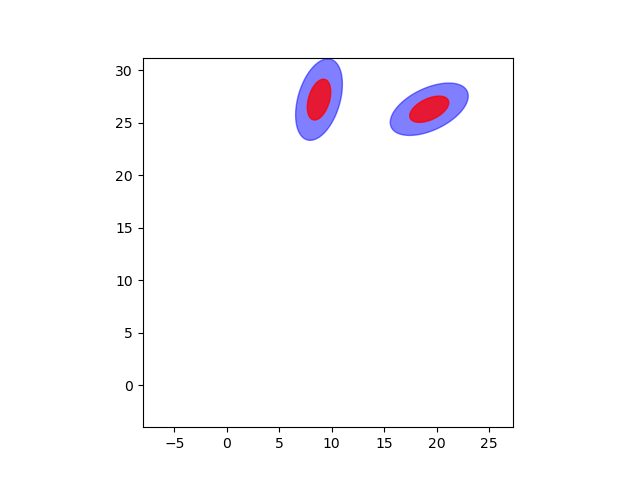
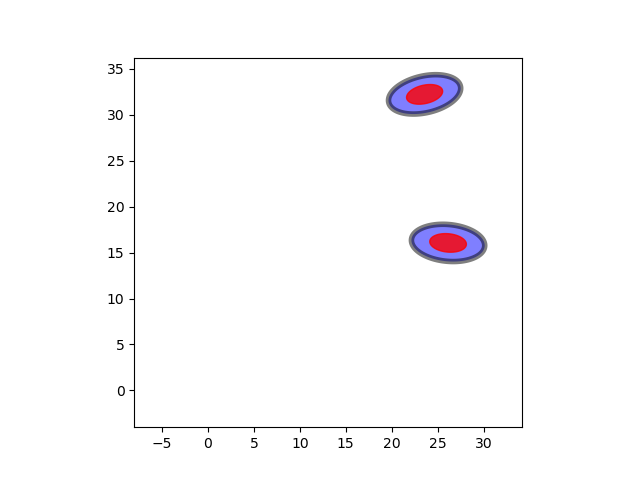
Somewhat working

diff --git a/Ellipse_Multi_Cell_Model_Python/adhesions.py b/Ellipse_Multi_Cell_Model_Python/adhesions.py
@@ -4,27 +4,23 @@ from energy import *
 def random_adhesions(L, a, b, cells, cparams,
                     Nadh, k_plus, dt, rng):
 
-    Adh = np.zeros((cells.shape[0]//3, Nadh, 2)) - 1
-    Adh0 = np.zeros((cells.shape[0]//3, Nadh, 2)) - 1
+    Adh = np.zeros((cells.shape[0]//3, Nadh, 2)) - 1e8
+    Adh0 = np.zeros((cells.shape[0]//3, Nadh, 2)) - 1e8
 
     for ind in range(cells.shape[0]//3):
         n = 2
         #Front and back points must be connected
         #front
-        x, y = a, 0.0
-        xp = (x*cos(pi/180*cparams[4*ind+2]) +
-                y*sin(pi/180*cparams[4*ind+2]))
-        yp = (x*sin(pi/180*cparams[4*ind+2]) +
-                y*cos(pi/180*cparams[4*ind+2]))
+        x = a
+        xp = x*cos(pi/180*cparams[4*ind+2])
+        yp = x*sin(pi/180*cparams[4*ind+2])
         Adh0[ind, 0] = np.array([xp, yp]) + cells[3*ind:(3*ind+2)]
         Adh[ind, 0] = np.array([xp, yp])
 
         #back
-        x, y = -a, 0.0
-        xp = (x*cos(pi/180*cparams[4*ind+2]) +
-                y*sin(pi/180*cparams[4*ind+2]))
-        yp = (x*sin(pi/180*cparams[4*ind+2]) +
-                y*cos(pi/180*cparams[4*ind+2]))
+        x = -a
+        xp = x*cos(pi/180*cparams[4*ind+2])
+        yp = x*sin(pi/180*cparams[4*ind+2])
         Adh0[ind, 1] = np.array([xp, yp]) + cells[3*ind:(3*ind+2)]
         Adh[ind, 1] = np.array([xp, yp])
 
@@ -50,8 +46,8 @@ def random_adhesions(L, a, b, cells, cparams,
 
 def new_adhesion(cell, cp, Nadh, a, b, L, k_plus, dt, rng):
 
-    Adh = np.zeros((Nadh, 2)) - 1
-    Adh0 = np.zeros((Nadh, 2)) - 1
+    Adh = np.zeros((Nadh, 2)) - 1e8
+    Adh0 = np.zeros((Nadh, 2)) - 1e8
 
     #Front and back points must be connected
     #front
@@ -90,7 +86,7 @@ def new_adhesion(cell, cp, Nadh, a, b, L, k_plus, dt, rng):
 def rotation(cells, cparams, Adh):
 
     for i in range(cells.shape[0]//3):
-        ind = np.arange(Adh.shape[1])[np.all(Adh[i]==-1,axis=1)]
+        ind = np.arange(Adh.shape[1])[np.all(Adh[i]!=-1e8,axis=1)]
         x, y = Adh[i, ind, 0], Adh[i, ind, 1]
         dtheta = pi/180*cells[3*i+2]
 
@@ -109,12 +105,12 @@ def contraction(cells, cparams, Ovlaps, Adh, lamda, tau, dt, T_S, a, b,
 
     for i in range(cells.shape[0]//3):
         # If no cells overlap
-        if (np.all(Ovlaps[i] == -1)):
+        if (np.all(Ovlaps[i] == -1e8)):
              c = lamda*dt/tau
 
              # Update a
              cparams[4*i] = a*exp(-c*cparams[4*i+3])
-             ind = np.arange(Adh.shape[1])[np.all(Adh[i]==-1,axis=1)]
+             ind = np.arange(Adh.shape[1])[np.all(Adh[i]!=-1e8,axis=1)]
              x, y = Adh[i, ind, 0], Adh[i, ind, 1]
              theta = pi/180*cparams[4*i+2]
 
@@ -135,7 +131,7 @@ def contraction(cells, cparams, Ovlaps, Adh, lamda, tau, dt, T_S, a, b,
                 # Update a
                 cparams[4*i] = a*exp(-c*cparams[4*i+3])
 
-                ind = np.arange(Adh.shape[1])[np.all(Adh[i]==-1,axis=1)]
+                ind = np.arange(Adh.shape[1])[np.all(Adh[i]!=-1e8,axis=1)]
                 x, y = Adh[i, ind, 0], Adh[i, ind, 1]
                 theta = pi/180*cparams[4*i+2]
 
@@ -149,7 +145,7 @@ def contraction(cells, cparams, Ovlaps, Adh, lamda, tau, dt, T_S, a, b,
 
                 # Update a
                 cparams[4*i] = a*exp(-c*cparams[4*i+3])
-                ind = np.arange(Adh.shape[1])[np.all(Adh[i]==-1,axis=1)]
+                ind = np.arange(Adh.shape[1])[np.all(Adh[i]!=-1e8,axis=1)]
                 x, y = Adh[i, ind, 0], Adh[i, ind, 1]
                 theta = pi/180*cparams[4*i+2]
 
@@ -166,7 +162,7 @@ def contraction(cells, cparams, Ovlaps, Adh, lamda, tau, dt, T_S, a, b,
 
 def mature(cell, Adh, Adh0, cp, Nadh, k_s, fTh, dt, rng):
 
-    ind = np.arange(Adh.shape[0])[np.all(Adh ==-1,axis=1)]
+    ind = np.arange(Adh.shape[0])[np.all(Adh !=-1e8,axis=1)]
 
     for i in ind:
         dis = sqrt(np.sum((Adh[i]-Adh0[i])**2.))
@@ -180,19 +176,19 @@ def mature(cell, Adh, Adh0, cp, Nadh, k_s, fTh, dt, rng):
     return Adh, Adh0
 
 def detach(cell, cell0, Adh, Adh0, cp, cp0,
-            Nadh, k_b, k_f, k_s, alpha, dt, rng):
+            Nadh, k_b, k_f, k_s, alpha, a, dt, rng):
 
-    ind = np.arange(Adh.shape[0])[np.all(Adh ==-1,axis=1)]
+    ind = np.arange(Adh.shape[0])[np.all(Adh !=-1e8,axis=1)]
 
     for i in ind:
-        x0 = ((Adh0[i, 0] - cell0[i])*cos(cp0[2]) +
-              (Adh0[i, 1] - cell0[i+1])*sin(cp0[2]))
+        x0 = ((Adh0[i, 0] - cell0[0])*cos(cp0[2]) +
+              (Adh0[i, 1] - cell0[1])*sin(cp0[2]))
 
         #detachment rate
         k_x = k_b - (k_b - k_f)*(x0+a)/(2*a)
 
         dis = sqrt(np.sum((Adh[i]-Adh0[i])**2.))
-        off_rate = k_x*exp(alpha*dis/a*ks/0.1)
+        off_rate = k_x*exp(alpha*dis/a*k_s/0.1)
 
         #detach adhesion site
         if (rng.random() < off_rate*dt):

diff --git a/Ellipse_Multi_Cell_Model_Python/energy.py b/Ellipse_Multi_Cell_Model_Python/energy.py
@@ -1,13 +1,14 @@
 import numpy as np
 from cell import *
 from adhesions import *
+import numba as nb
 
 def adhesion_energy(cells, Adh, Adh0, k_s):
 
     ad_energy = 0
 
     for i in range(cells.shape[0]//3):
-        ind = np.arange(Adh.shape[1])[np.all(Adh[i]==-1,axis=1)]
+        ind = np.arange(Adh.shape[1])[np.all(Adh[i]!=-1e8,axis=1)]
         dtheta = pi/180*cells[3*i+2]
         fx = -((cos(dtheta)*Adh[i, ind, 0]-sin(dtheta)*Adh[i, ind, 1] +
                 cells[3*i] - Adh0[i, ind, 0]))
@@ -24,21 +25,21 @@ def overlap_energy(cells, cparams, num, Ovlaps,
     oval_energy = 0
 
     #cells overlap
-    if np.any(Ovlaps[num] != -1):
+    if np.any(Ovlaps[num] != -1e8):
 
         ell_i_out = create_ellipse((cells[3*num],cells[3*num+1]), (
-                        cparams[4*num],cparams[4*num+1]), cells[4*num+2])
+                        cparams[4*num],cparams[4*num+1]), cparams[4*num+2])
         ell_i_in = create_ellipse((cells[3*num],cells[3*num+1]), (0.5*
-                        cparams[4*num],0.5*cparams[4*num+1]), cells[4*num+2])
+                        cparams[4*num],0.5*cparams[4*num+1]), cparams[4*num+2])
 
         ind = np.arange(Ovlaps.shape[0])[Ovlaps[num] == 1]
 
         #for each cell, find the overlap energy
         for j in ind:
             ell_j_out = create_ellipse((cells[3*j],cells[3*j+1]), (
-                            cparams[4*j],cparams[4*j+1]), cells[4*j+2])
+                            cparams[4*j],cparams[4*j+1]), cparams[4*j+2])
             ell_j_in = create_ellipse((cells[3*j],cells[3*j+1]), (0.5*
-                            cparams[4*j],0.5*cparams[4*j+1]), cells[4*j+2])
+                            cparams[4*j],0.5*cparams[4*j+1]), cparams[4*j+2])
 
             #find the overlap area
             oval_energy -= 0.5*k_out_out*(ell_i_out.intersection(ell_j_out).area)
@@ -65,15 +66,15 @@ def compute_tension(cells, num, cparams, Ovlaps, k_out_out,
     cp = cparams.copy()
 
     #change a
-    cp[4*num] += 1e-4
+    cp[4*num] = 1.5*cparams[4*num]
     e1 = overlap_energy(cells, cp, num, Ovlaps,
                         k_out_out, k_in_out, k_in_in)
 
-    cp[4*num] -= 2e-4
+    cp[4*num] = 0.5*cparams[4*num]
     e2 = overlap_energy(cells, cp, num, Ovlaps,
                         k_out_out, k_in_out, k_in_in)
 
-    return (e2 - e1)/2e-4
+    return (e2 - e1)/cparams[4*num]
 
 def total_energy(cells, cparams, Ovlaps, Adh, Adh0,
                 k_s, k_out_out, k_in_out, k_in_in):

diff --git a/Ellipse_Multi_Cell_Model_Python/plot_cells.py b/Ellipse_Multi_Cell_Model_Python/plot_cells.py
@@ -4,6 +4,7 @@ from shapely import affinity
 from shapely.ops import unary_union, polygonize
 from itertools import combinations
 from matplotlib.patches import Polygon
+from matplotlib import collections  as mc
 import numpy as np
 import math
 
@@ -17,10 +18,11 @@ def create_ellipse(center, lengths, angle=0):
     ellr = affinity.rotate(ell, angle)
     return ellr
 
-def plot_ellipses(cells, cparams, a, b, t):
+def plot_ellipses(cells, cparams, Adh, Adh0, a, b, t):
 
     ells_out = []
     ells_in = []
+    liness = []
     x_min = 0
     x_max = 0
     y_min = 0
@@ -43,19 +45,32 @@ def plot_ellipses(cells, cparams, a, b, t):
         if (y_max <= cells[3*i+1]):
             y_max = cells[3*i+1]
 
+        ind = np.arange(Adh.shape[1])[np.all(Adh[i]!=-1e8,axis=1)]
+
+        for n in ind:
+            x2, y2 = Adh[i, n, 0], Adh[i, n, 1]
+            x2 += cells[3*i]
+            y2 += cells[3*i+1]
+            liness.append([(x2, y2), (Adh0[i, n, 0], Adh0[i, n, 1])])
+
 
     fig, ax = plt.subplots(subplot_kw={'aspect': 'equal'})
-    ells_out = unary_union(ells_out)
+    #ells_out = unary_union(ells_out)
     for e in polygonize(ells_out):
         verts = np.array(e.exterior.coords.xy)
-        patch = Polygon(verts.T, color = 'blue', alpha = 0.5)
+        patch = Polygon(verts.T, facecolor = 'blue', alpha = 0.5, linestyle = "-",
+                        edgecolor="black", linewidth = 4)
         ax.add_patch(patch)
 
-    ells_in = unary_union(ells_in)
+    #ells_in = unary_union(ells_in)
     for e in polygonize(ells_in):
         verts = np.array(e.exterior.coords.xy)
         patch = Polygon(verts.T, color = 'red', alpha = 0.8)
         ax.add_patch(patch)
+
+
+    lc = mc.LineCollection(liness, colors="black", linewidths=0.5)
+    #ax.add_collection(lc)
 
     ax.set_xlim(-2*a+x_min, x_max+2*a)
     ax.set_ylim(-2*b+y_min, y_max+2*b)

diff --git a/Ellipse_Multi_Cell_Model_Python/main.py b/Ellipse_Multi_Cell_Model_Python/main.py
@@ -16,9 +16,9 @@ lamda = 0.4
 tau = 20
 T_S = 10
 k_s = 0.1
-k_out_out = 0.2
-k_in_out = 0.4
-k_in_in = 0.8
+k_out_out = 0.02
+k_in_out = 1000
+k_in_in = 10000
 fThreshold = 0.0005
 k_b = 0.02
 k_f = 0.005
@@ -36,13 +36,13 @@ Adh0, Adh = adhesions.random_adhesions(L, a, b, cells, cparams, Nadh,
 
 for t in range(4*tau):
 
+    #Find the overlap indices
+    Ovlaps = cell.find_overlaps(cells, cparams, Ovlaps)
+
     # Cells contract
     cparams, Adh = adhesions.contraction(cells, cparams, Ovlaps, Adh,
                           lamda, tau, dt, T_S, a, b,
                           k_out_out, k_in_out, k_in_in)
-
-    #Find the overlap indices
-    cell.find_overlaps(cells, cparams, Ovlaps)
 
     #minimize energy
     args = (cparams, Ovlaps, Adh, Adh0,
@@ -60,7 +60,6 @@ for t in range(4*tau):
     for num in range(Num):
         #cell extension
         if cparams[4*num] <= a_min:
-            print("tada")
             #reset phase
             cparams[4*num] = a
             cparams[4*num+3] = 0
@@ -86,6 +85,6 @@ for t in range(4*tau):
                                     Adh[num], Adh0[num],
                                     cparams[4*num:(4*num+3)],
                                     cparams0[4*num:(4*num+3)],
-                                    Nadh, k_b, k_f, k_s, alpha, dt, rng)
-    #plot_cells.plot_ellipses(cells, cparams, a, b, t)
-    print(Adh)
+                                    Nadh, k_b, k_f, k_s, alpha, a, dt, rng)
+    plot_cells.plot_ellipses(cells, cparams, Adh, Adh0, a, b, t)
+    print(t)

diff --git a/Ellipse_Multi_Cell_Model_Python/cell.py b/Ellipse_Multi_Cell_Model_Python/cell.py
@@ -35,7 +35,7 @@ def random_cells(L, a, b, Num, rng):
     cells = np.zeros(Num*3)
     # a b theta phase
     cparams = np.zeros(Num*4)
-    Ovlaps = np.zeros((Num, Num)) - 1
+    Ovlaps = np.zeros((Num, Num)) - 1e8
 
     ind = 0
     while (ind < Num):
@@ -55,11 +55,13 @@ def find_overlaps(cells, cparams, Ovlaps):
 
     for i in range(cells.shape[0]//3):
         ell_i = create_ellipse((cells[3*i],cells[3*i+1]), (
-                                cparams[4*i],cparams[4*i+1]), cells[3*i+2])
+                                cparams[4*i],cparams[4*i+1]), cparams[4*i+2])
         for j in range(i+1, cells.shape[0]//3):
             ell_j = create_ellipse((cells[3*j],cells[3*j+1]), (
-                                    cparams[4*j],cparams[4*j+1]), cells[3*j+2])
+                                    cparams[4*j],cparams[4*j+1]), cparams[4*j+2])
 
             if ell_i.boundary.intersects(ell_j.boundary):
-                Ovlaps[i, j] = 1
-                Ovlaps[j, i] = 1
+                Ovlaps[i][j] = 1
+                Ovlaps[j][i] = 1
+
+    return Ovlaps
